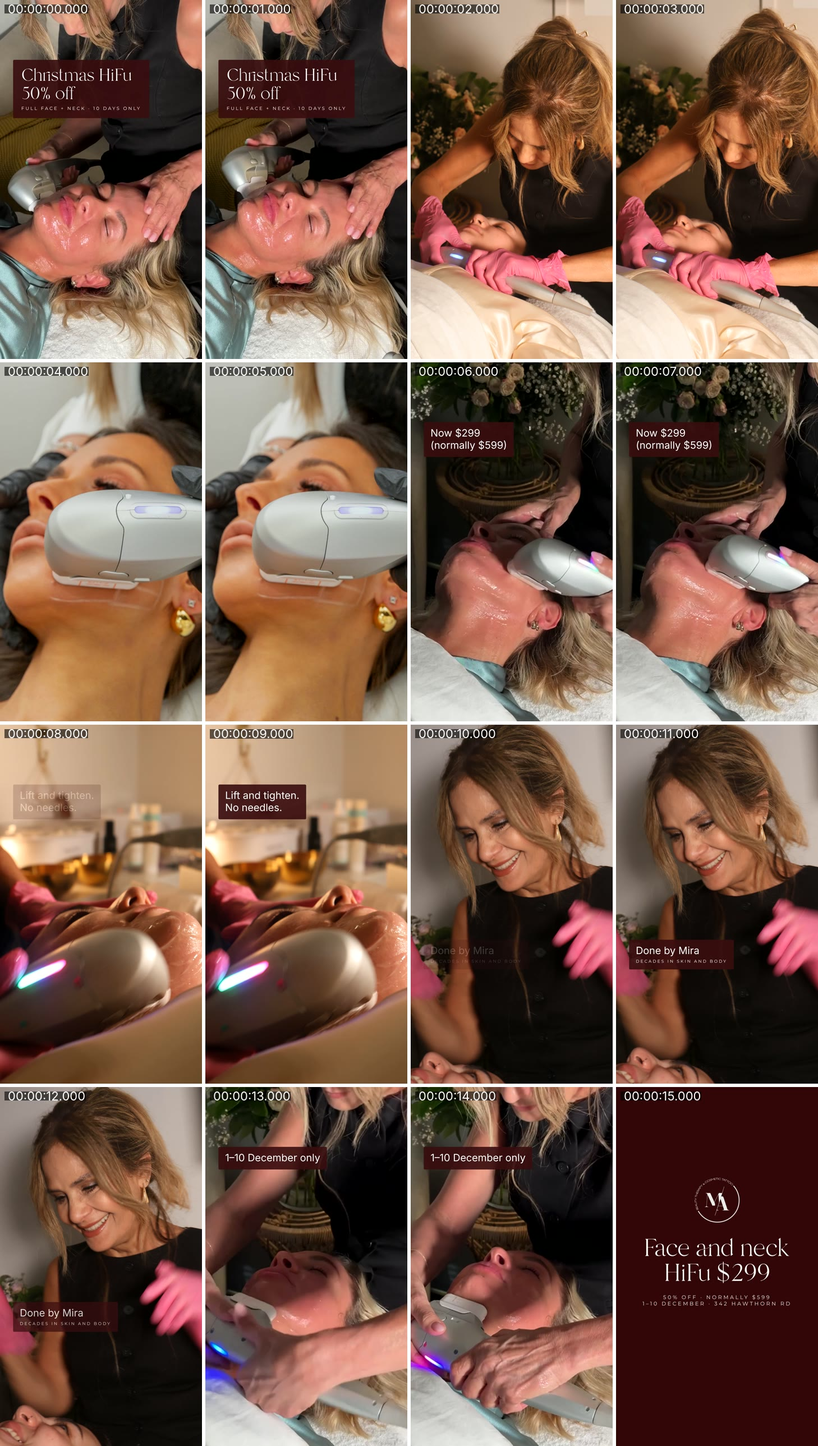
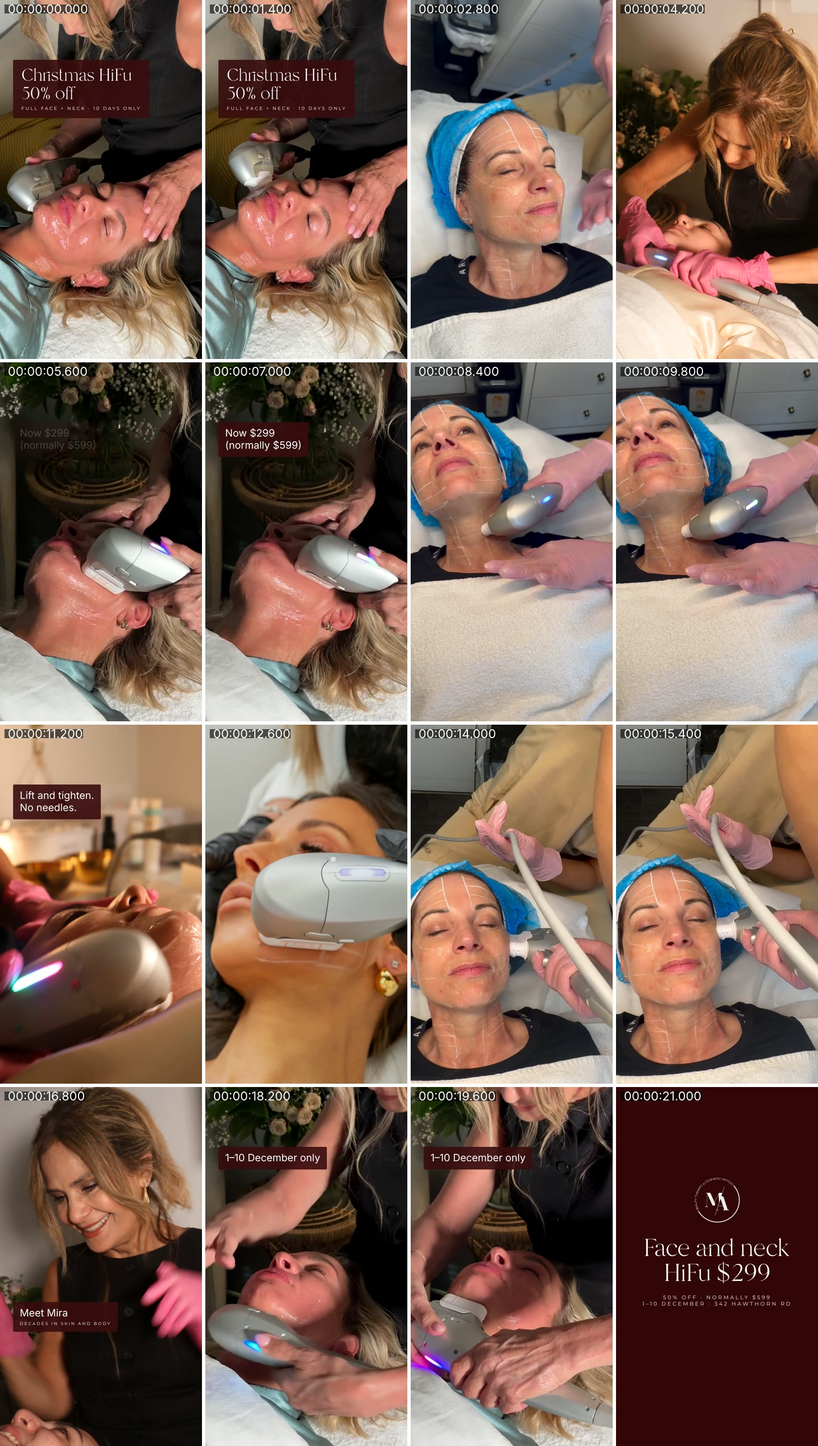
HiFu video: add five new HiFu clips, four clients
Claude-Session: https://claude.ai/code/session_01FRXbSczGoVco3RLoUk7ePa

diff --git a/marketing/videos/2026-11-21-hifu-christmas/t4m.html b/marketing/videos/2026-11-21-hifu-christmas/t4m.html
@@ -1,1 +1,1 @@
-<!doctype html><html><head><meta charset="utf-8"><link rel="stylesheet" href="../../../brand/templates/ma.css"><style>html,body{background:transparent}.t{position:absolute;left:70px;top:1150px;max-width:860px;display:inline-block;background:rgba(55,12,14,.9);color:#fff;font-family:'Helvetica Neue',Helvetica,Arial,sans-serif;font-weight:400;font-size:54px;line-height:1.2;padding:26px 36px 30px;border-radius:6px}.s{margin-top:12px;font-family:Montserrat,sans-serif;font-size:22px;letter-spacing:.3em;text-transform:uppercase}</style></head><body><div class="t">Done by Mira<div class="s">Decades in skin and body</div></div></body></html>
+<!doctype html><html><head><meta charset="utf-8"><link rel="stylesheet" href="../../../brand/templates/ma.css"><style>html,body{background:transparent}.t{position:absolute;left:70px;top:1150px;max-width:860px;display:inline-block;background:rgba(55,12,14,.9);color:#fff;font-family:'Helvetica Neue',Helvetica,Arial,sans-serif;font-weight:400;font-size:54px;line-height:1.2;padding:26px 36px 30px;border-radius:6px}.s{margin-top:12px;font-family:Montserrat,sans-serif;font-size:22px;letter-spacing:.3em;text-transform:uppercase}</style></head><body><div class="t">Meet Mira<div class="s">Decades in skin and body</div></div></body></html>
